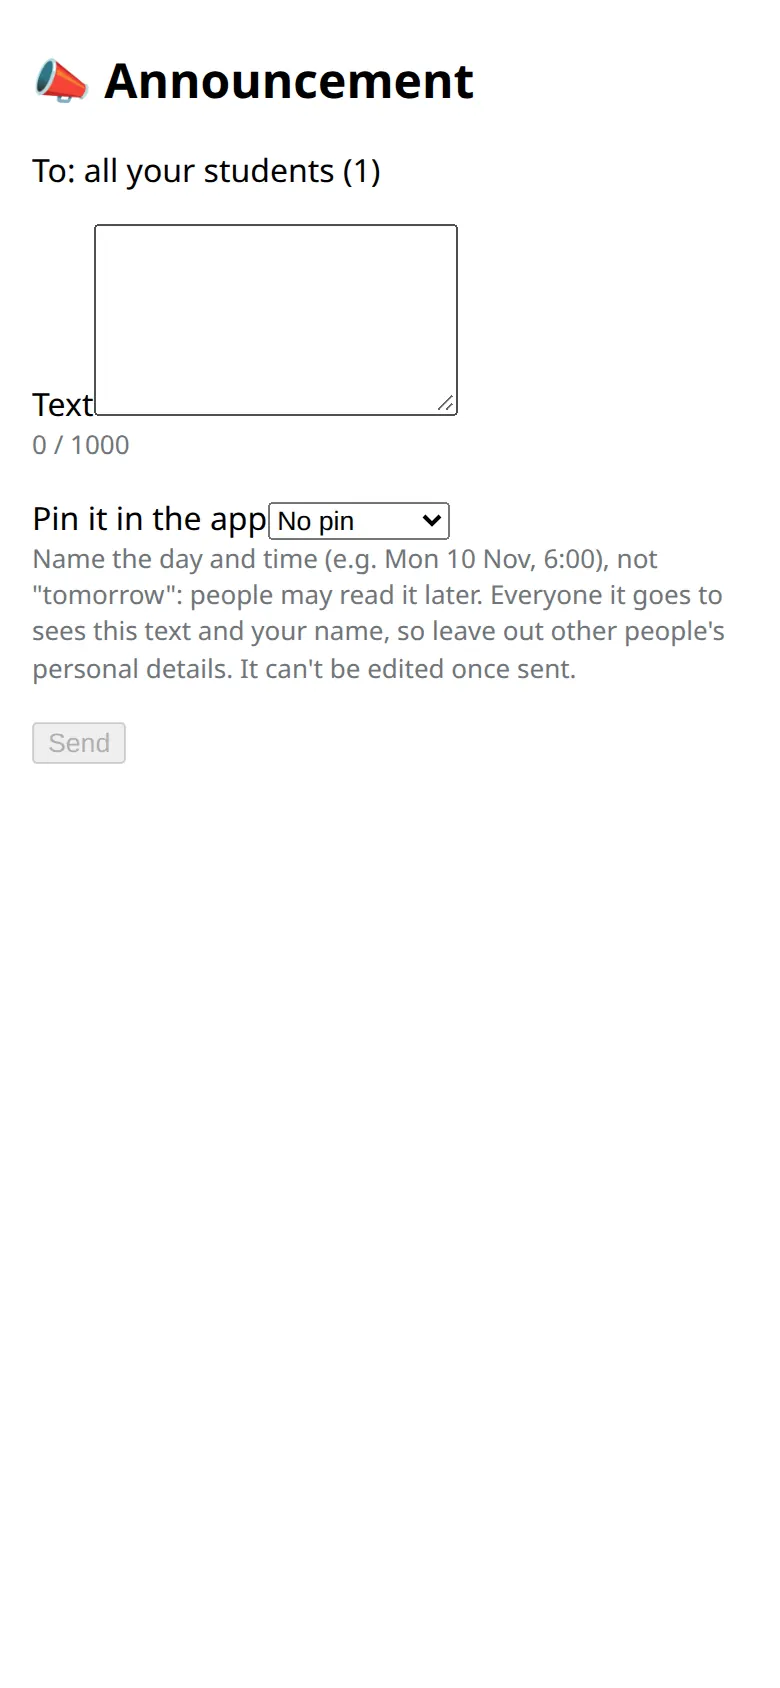
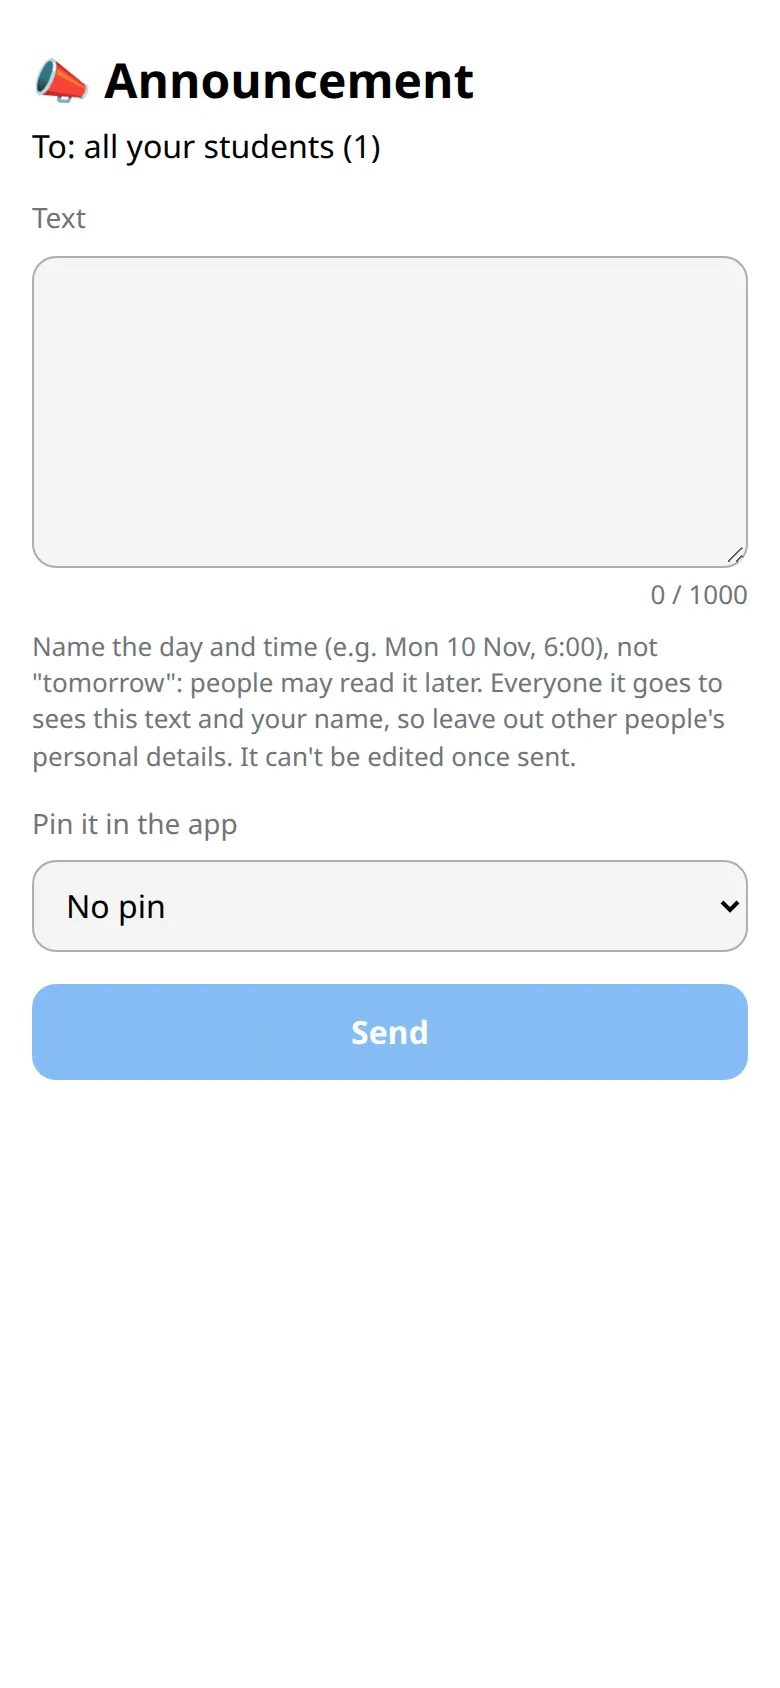
NT-03: the announcement composer uses the app's form controls
The composer had no form styling: the Text label beside a small raw
textarea, a native select inline with its label, a grey browser button,
and the Sent list with bullets and "Unpin"/"Delete" run together.

- Text and "Pin it in the app" are labelled full-width fields (`Field`,
  a new `TextArea` control, `Select`); the counter sits right under the
  text, with the writing hints, and all three describe the textarea.
- Send uses the form's primary `.btn`.
- The sent list (and the feed) loses its bullets: entries between
  hairlines, line breaks kept, own texts clamped to four lines, and
  Unpin / Delete as separate 44 px text buttons.
- Guide shots app-shala-announce and app-announce re-shot (en, ru).

No behaviour or copy change; initial JS unchanged (144.0 KB).

Changed region(s): [[0.0308, 0.2156, 0.9538, 0.4929], [0.0308, 0.5237, 0.9846, 0.6469], [0.0308, 0.0616, 0.4923, 0.1848]]

diff --git a/miniapp/src/screens/announcements/Announcements.tsx b/miniapp/src/screens/announcements/Announcements.tsx
@@ -24,6 +24,8 @@ import {
   haptics,
   useBackButton,
 } from "../../telegram";
+import { Field, Select, TextArea } from "../../ui/controls";
+import "./announcements.css";
 
 export const TEXT_MAX = 1000;
 type PinDays = 0 | 7 | 30;
@@ -148,11 +150,8 @@ function Compose({
         </p>
       )}
       <form className="announce-form" onSubmit={(e) => void submit(e)}>
-        <label className="label">
-          <Localized id="ann-text-label">
-            <span />
-          </Localized>
-          <textarea
+        <Field label={l10n.getString("ann-text-label")}>
+          <TextArea
             value={text}
             rows={6}
             onChange={(e) => {
@@ -160,17 +159,24 @@ function Compose({
               setSent(false);
             }}
             aria-invalid={tooLong}
-            aria-describedby="ann-count"
+            aria-describedby={
+              shala === null ? "ann-count ann-hint" : "ann-count ann-hint ann-hint-shala"
+            }
           />
-        </label>
-        <p id="ann-count" className={tooLong ? "hint small error" : "hint small"}>
-          {counter}
-        </p>
-        <label className="label">
-          <Localized id="ann-pin-label">
-            <span />
+          <p id="ann-count" className={tooLong ? "field-error count" : "field-hint count"}>
+            {counter}
+          </p>
+          <Localized id="ann-hint">
+            <p id="ann-hint" className="field-hint" />
           </Localized>
-          <select
+          {shala !== null && (
+            <Localized id="ann-hint-shala">
+              <p id="ann-hint-shala" className="field-hint" />
+            </Localized>
+          )}
+        </Field>
+        <Field label={l10n.getString("ann-pin-label")}>
+          <Select
             value={pin}
             onChange={(e) => {
               setPin(Number(e.target.value) as PinDays);
@@ -179,16 +185,8 @@ function Compose({
             <option value={0}>{l10n.getString("ann-pin-none")}</option>
             <option value={7}>{l10n.getString("ann-pin-week")}</option>
             <option value={30}>{l10n.getString("ann-pin-month")}</option>
-          </select>
-        </label>
-        <Localized id="ann-hint">
-          <p className="hint small" />
-        </Localized>
-        {shala !== null && (
-          <Localized id="ann-hint-shala">
-            <p className="hint small" />
-          </Localized>
-        )}
+          </Select>
+        </Field>
         {limited && (
           <Localized id="ann-limit">
             <p className="hint" role="alert" />
@@ -207,7 +205,7 @@ function Compose({
         <Localized id="ann-send">
           <button
             type="submit"
-            className="primary"
+            className="btn"
             disabled={send.isPending || length === 0 || tooLong || count === 0}
           />
         </Localized>
@@ -263,12 +261,12 @@ function SentList({ shala, locale }: { shala: string | null; locale: Locale }) {
               ].join(" · ")}
             </p>
             <p className="announcement-text clamp">{item.text}</p>
-            <div className="row">
+            <div className="ann-actions">
               {item.pinned_until ? (
                 <Localized id="ann-unpin">
                   <button
                     type="button"
-                    className="link"
+                    className="link tap"
                     onClick={() => {
                       pin.mutate({ id: item.id, days: 0 });
                     }}
@@ -278,7 +276,7 @@ function SentList({ shala, locale }: { shala: string | null; locale: Locale }) {
                 <Localized id="ann-pin-week">
                   <button
                     type="button"
-                    className="link"
+                    className="link tap"
                     onClick={() => {
                       pin.mutate({ id: item.id, days: 7 });
                     }}
@@ -286,7 +284,7 @@ function SentList({ shala, locale }: { shala: string | null; locale: Locale }) {
                 </Localized>
               )}
               <Localized id="ann-delete">
-                <button type="button" className="link danger" onClick={() => void del(item)} />
+                <button type="button" className="link tap danger" onClick={() => void del(item)} />
               </Localized>
             </div>
           </li>
@@ -452,12 +450,12 @@ function Moderate({ item }: { item: Announcement }) {
     if (ok) remove.mutate(item.id);
   };
   return (
-    <div className="row" aria-busy={pin.isPending || remove.isPending}>
+    <div className="ann-actions" aria-busy={pin.isPending || remove.isPending}>
       {item.pinned_until && (
         <Localized id="ann-unpin">
           <button
             type="button"
-            className="link"
+            className="link tap"
             onClick={() => {
               pin.mutate({ id: item.id, days: 0 });
             }}
@@ -465,7 +463,7 @@ function Moderate({ item }: { item: Announcement }) {
         </Localized>
       )}
       <Localized id="ann-delete">
-        <button type="button" className="link danger" onClick={() => void del()} />
+        <button type="button" className="link tap danger" onClick={() => void del()} />
       </Localized>
       {(pin.isError || remove.isError) && (
         <Localized id="feed-failed">

diff --git a/miniapp/src/screens/announcements/announcements.css b/miniapp/src/screens/announcements/announcements.css
@@ -1,0 +1,83 @@
+/* NT-03: the announcement composer, my sent list and the feed. Loaded with the lazy screen,
+   never with the first chunk. The fields are the shared `ui/` controls (`ui/form.css`); this
+   file only lays out what is the composer's own. Theme tokens only. */
+
+.announcements h1 {
+  margin-bottom: 4px;
+}
+
+.announcements h1 + p {
+  margin: 0 0 var(--space);
+}
+
+/* "120 / 1000" sits at the right under the text; what to write follows it. */
+.announce-form .count {
+  margin-top: 4px;
+  text-align: right;
+  font-variant-numeric: tabular-nums;
+}
+
+.announce-form .field-hint + .field-hint {
+  margin-top: 8px;
+}
+
+.announce-form > .hint {
+  margin: 0 0 12px;
+}
+
+/* One announcement per entry, hairlines between them; no bullets. */
+.announcements-list {
+  margin: 0;
+  padding: 0;
+  list-style: none;
+}
+
+.announcements-list > li {
+  padding: 12px 0;
+}
+
+.announcements-list > li + li {
+  border-top: 1px solid var(--c-line);
+}
+
+.card .announcements-list > li:first-child {
+  padding-top: 0;
+}
+
+.card .announcements-list > li:last-child {
+  padding-bottom: 0;
+}
+
+.announcements-list .hint {
+  margin: 0 0 4px;
+  font-size: 13px;
+}
+
+/* Plain text, relayed as written: its line breaks kept, a long link wrapped. */
+.announcement-text {
+  margin: 0;
+  white-space: pre-wrap;
+  overflow-wrap: anywhere;
+}
+
+/* My own sent text: the first four lines are enough to know it again. */
+.announcement-text.clamp {
+  display: -webkit-box;
+  overflow: hidden;
+  -webkit-box-orient: vertical;
+  -webkit-line-clamp: 4;
+  line-clamp: 4;
+}
+
+/* Unpin and Delete: two quiet text buttons, apart, each a full tap target. */
+.ann-actions {
+  display: flex;
+  flex-wrap: wrap;
+  align-items: center;
+  gap: 0 24px;
+  margin-top: 4px;
+}
+
+.ann-actions .hint {
+  flex-basis: 100%;
+}

diff --git a/miniapp/src/screens/announcements/Announcements.test.tsx b/miniapp/src/screens/announcements/Announcements.test.tsx
@@ -156,6 +156,11 @@ describe("compose", () => {
     expect(screen.getByRole("button", { name: "Send" })).toBeDisabled();
     expect(screen.getByText(/Name the day and time/)).toBeInTheDocument();
     expect(screen.queryByText(/students and staff/)).not.toBeInTheDocument();
+    // The shared form fields: each labelled, the text described by its counter and hint.
+    expect(screen.getByLabelText("Text")).toBe(box());
+    expect(box()).toHaveAccessibleDescription(/1001 \/ 1000.*Name the day and time/);
+    expect(box()).toHaveAttribute("aria-invalid", "true");
+    expect(screen.getByRole("combobox", { name: "Pin it in the app" })).toHaveValue("0");
   });
 
   it("asks first, sends with the pin, then clears", async () => {

diff --git a/miniapp/src/ui/controls.tsx b/miniapp/src/ui/controls.tsx
@@ -84,6 +84,11 @@ export function DateInput(props: InputProps) {
   return <input type="date" className="control" {...useWiring()} {...props} />;
 }
 
+/** Several lines of text, full width; grows only by the person's own drag (down). */
+export function TextArea(props: Omit<ComponentProps<"textarea">, "className">) {
+  return <textarea className="control" {...useWiring()} {...props} />;
+}
+
 export function Select(props: Omit<ComponentProps<"select">, "className">) {
   return <select className="control" {...useWiring()} {...props} />;
 }

diff --git a/miniapp/src/ui/form.css b/miniapp/src/ui/form.css
@@ -43,6 +43,12 @@ input.control {
   appearance: none;
 }
 
+textarea.control {
+  min-height: 132px;
+  resize: vertical;
+  line-height: 1.4;
+}
+
 /* A number with its unit beside it: "105 min". */
 .control-unit {
   display: flex;
